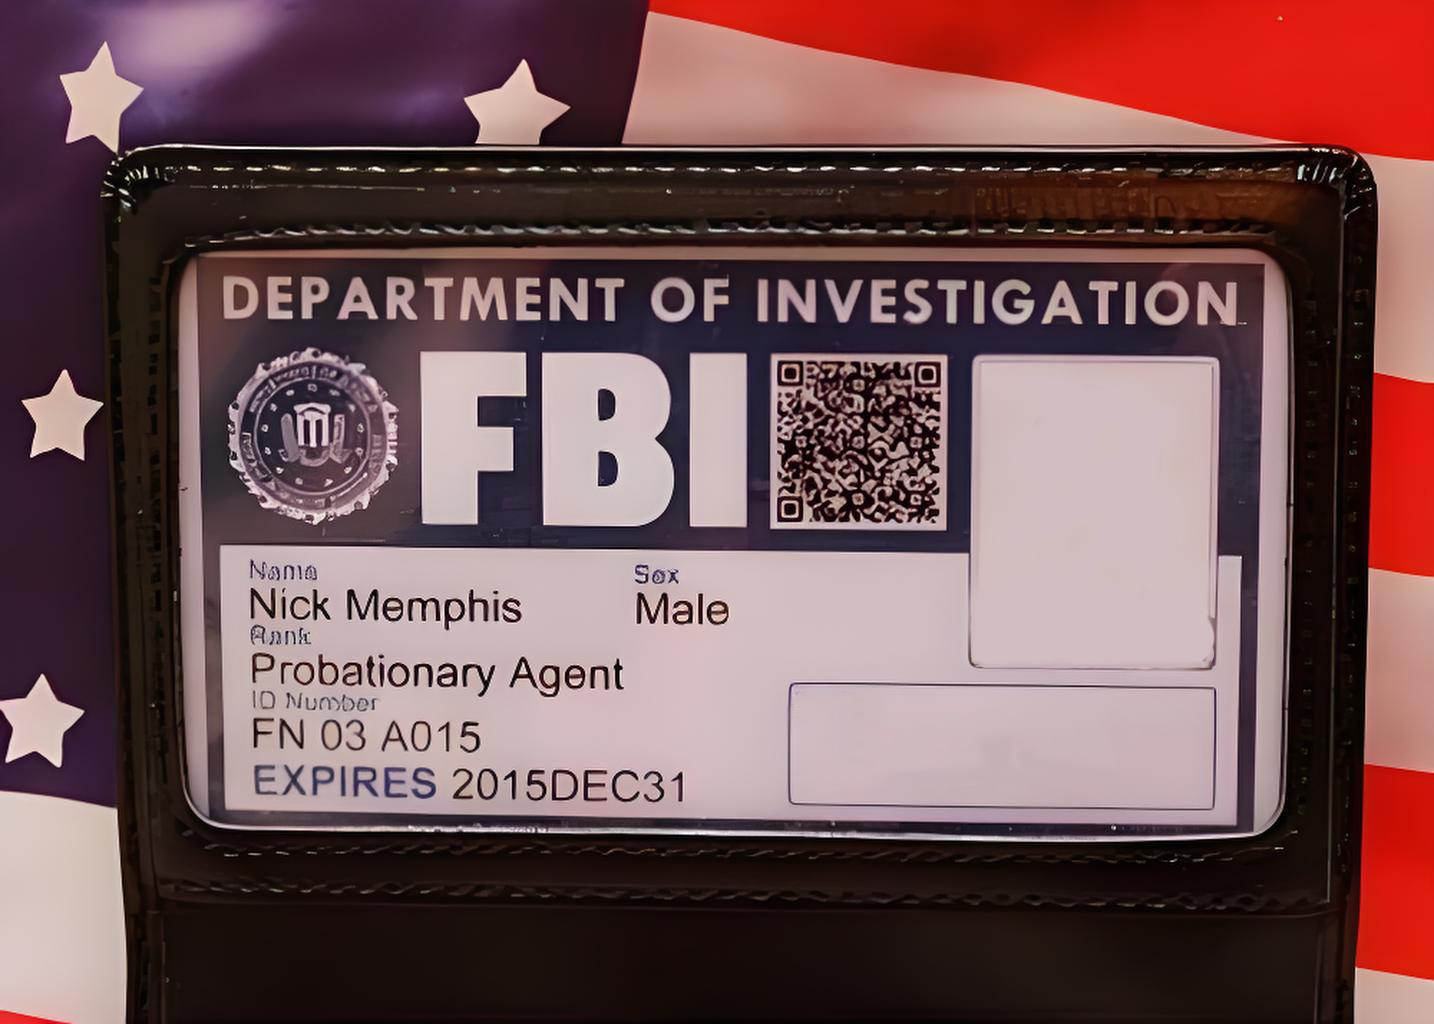
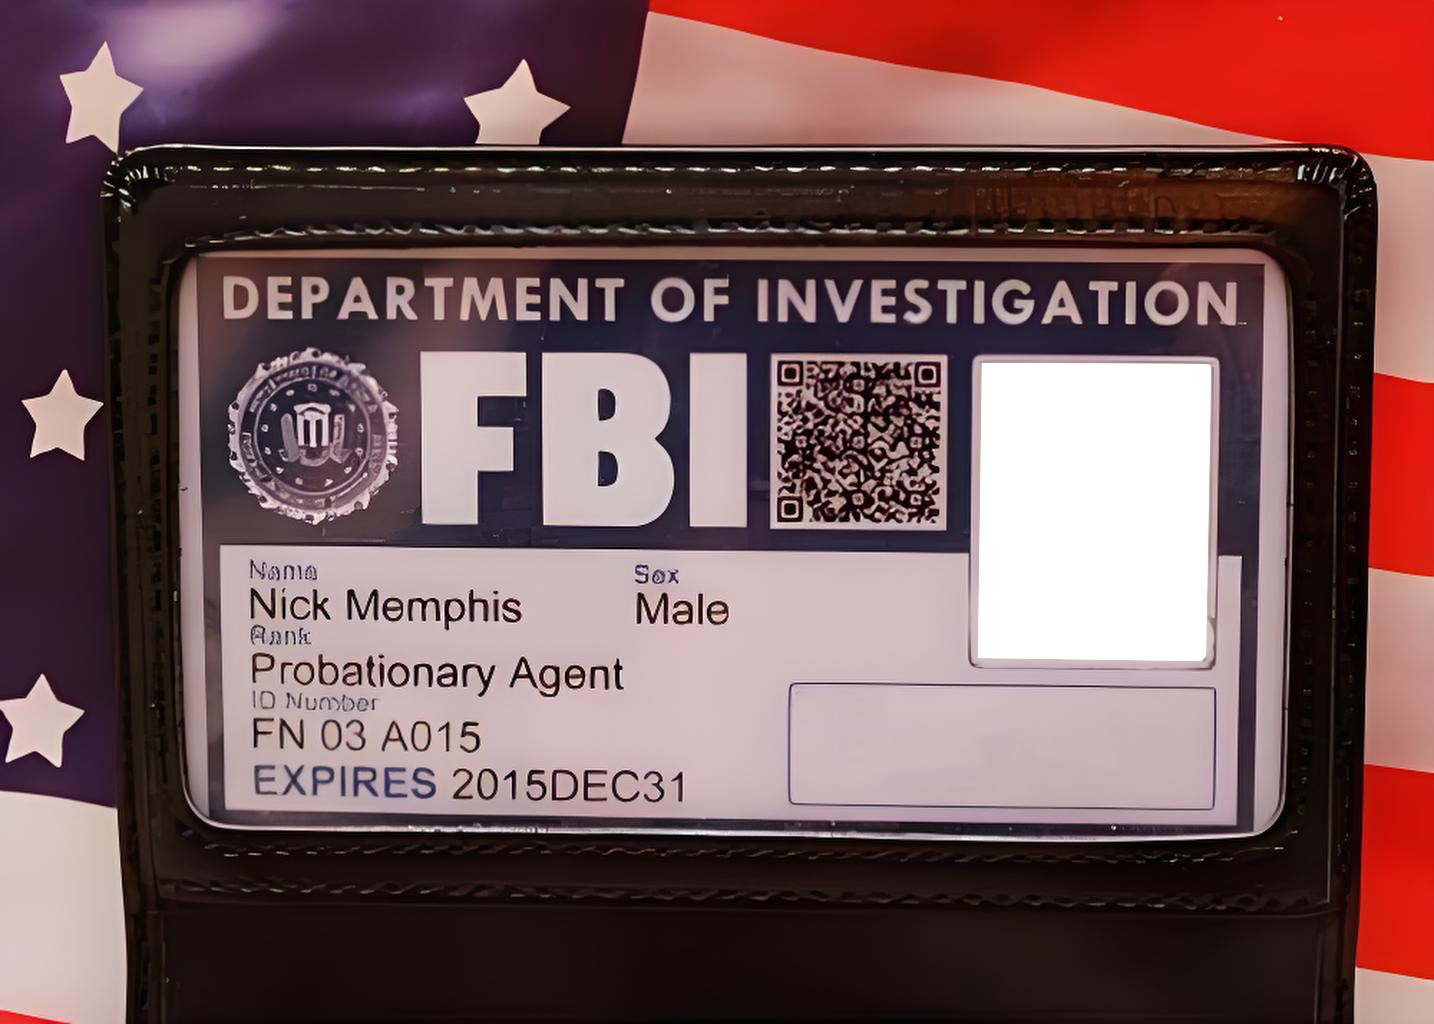
fix(fbi_photo): 调整头像尺寸与位置，改为垫底绘制

Changed region(s): [[0.675, 0.3438, 0.8591, 0.6562]]

diff --git a/emoji/fbi_photo/__init__.py b/emoji/fbi_photo/__init__.py
@@ -27,8 +27,8 @@ def fbi_photo(images: list[BuildImage], texts: list[str], args: MemeArgsModel):
     except ValueError:
         raise TextOverLength(name)
     def make(imgs: list[BuildImage]) -> BuildImage:
-        img = imgs[0].convert("RGBA").resize((220, 220))
-        return frame.copy().paste(img, (985, 400), alpha=True)
+        img = imgs[0].convert("RGBA").resize((235, 303), keep_ratio=True)
+        return frame.copy().paste(img, (978, 363), alpha=True, below=True)
     return make_jpg_or_gif(images, make)
 add_meme(
     "fbi_photo",
